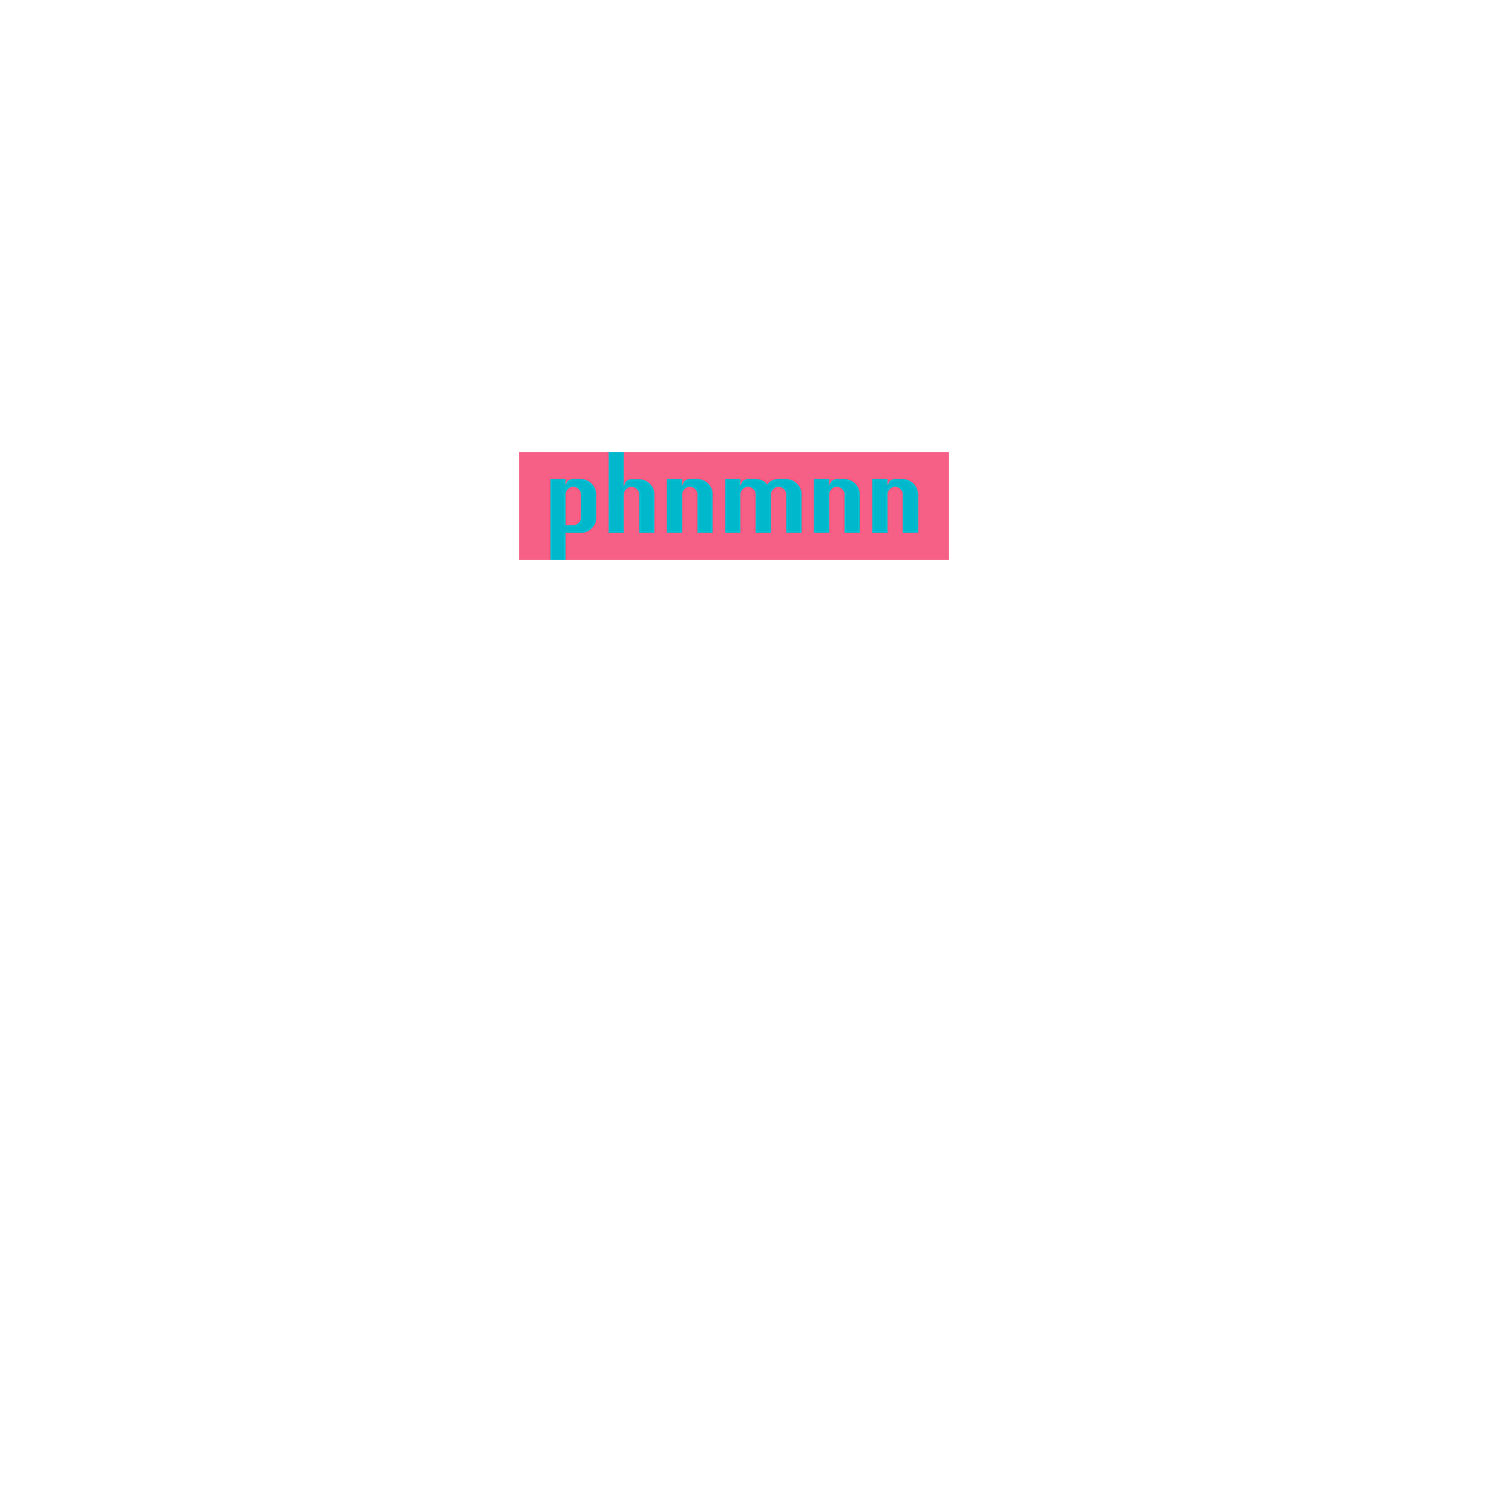
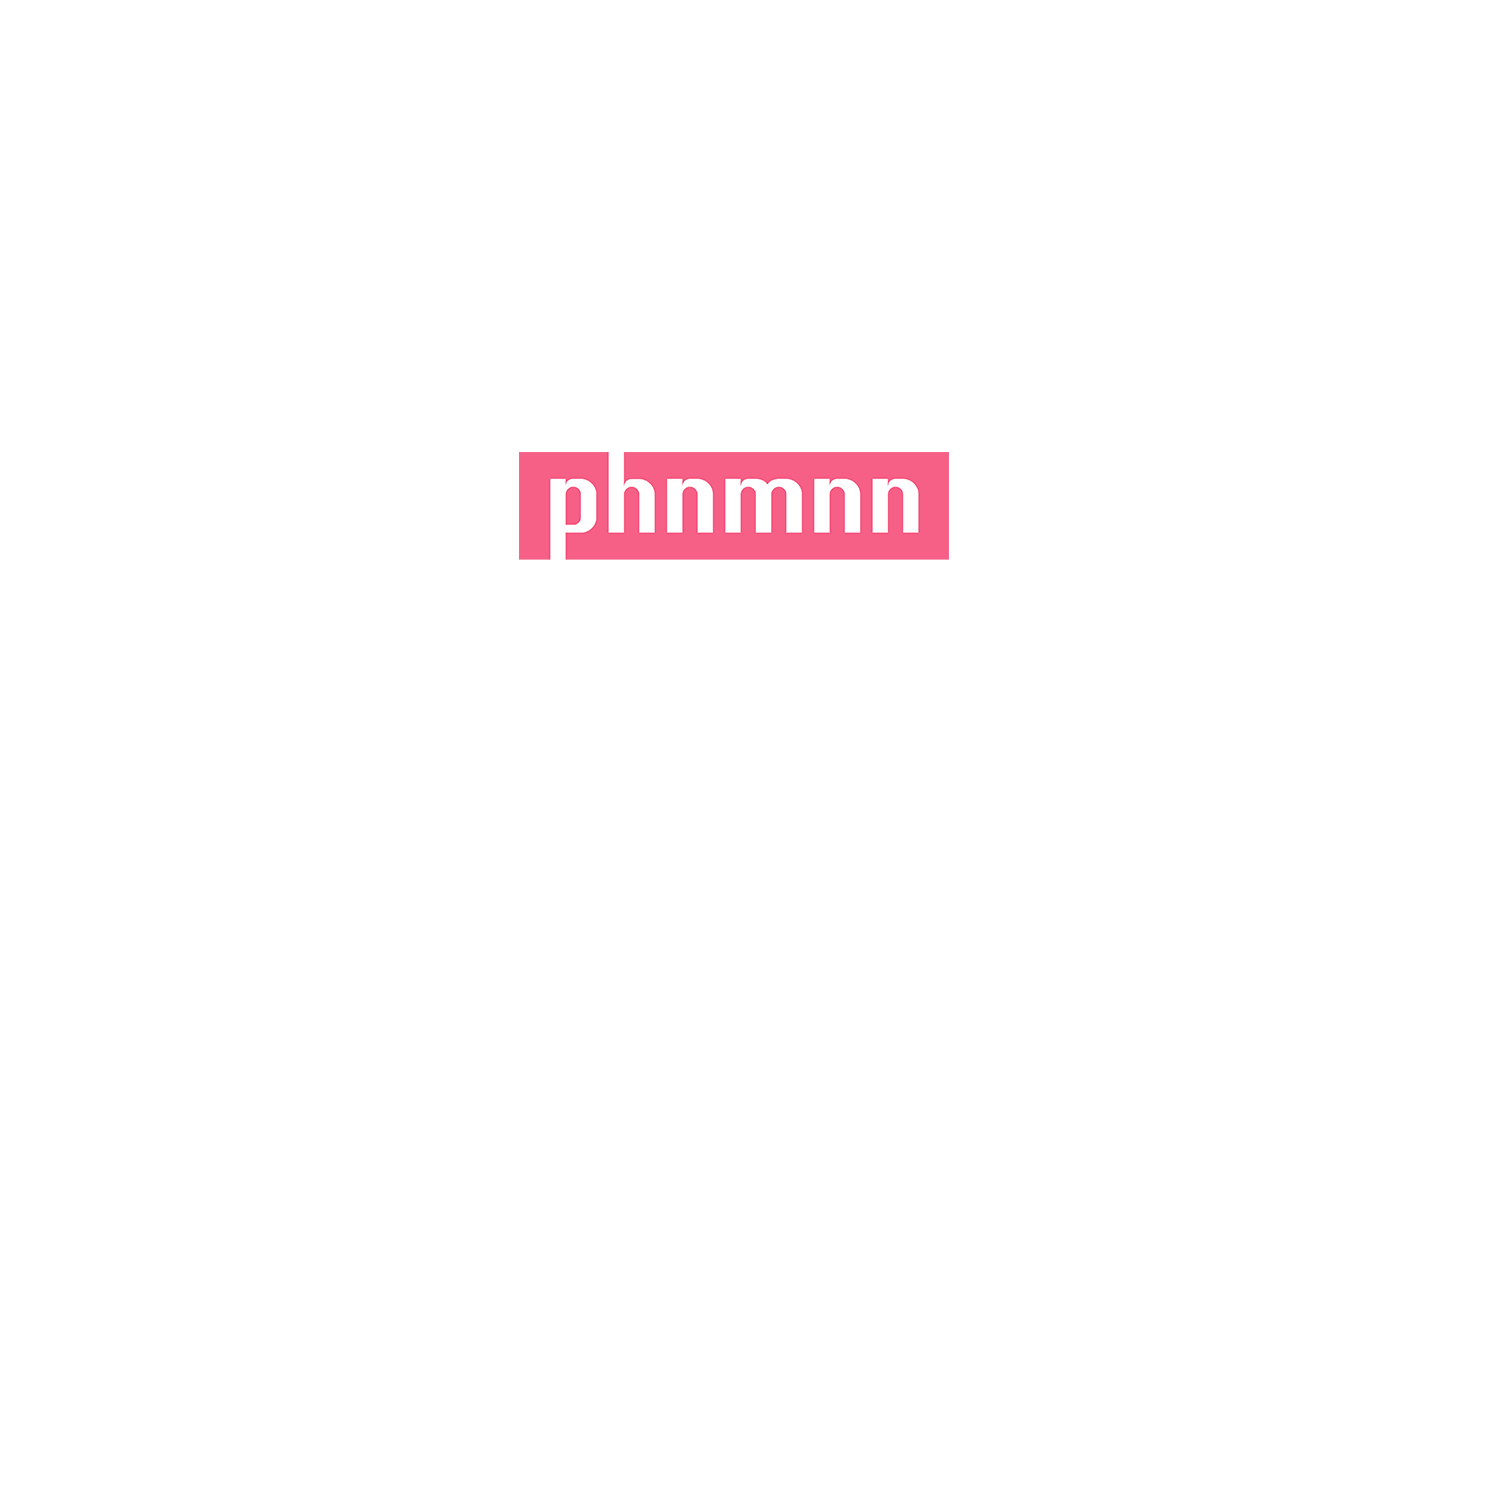
Updated merch

Changed region(s): [[0.368, 0.3079, 0.6133, 0.3695]]

diff --git a/src/data/merch/print/phnmnn/index.ts b/src/data/merch/print/phnmnn/index.ts
@@ -4,26 +4,26 @@ import base_red from '../../base/red.png';
 import base_white from '../../base/white.png';
 import base_lightblue from '../../base/lightblue.png';
 
+import red_blue from './red_blue.png';
 import red from './red.png';
 import lightblue from './lightblue.png';
-import white from './white.png';
 
 const print: PrintVariant[] = [
   {
-    base: { url: base_white, hex: '#FFFFFF', name: 'W' },
+    base: { url: base_lightblue, hex: '#05A1CE', name: 'B' },
     print: { url: red, hex: '#FE5D82', name: 'R' },
   },
   {
-    base: { url: base_white, hex: '#FFFFFF', name: 'W' },
-    print: { url: lightblue, hex: '#00B7CC', name: 'L' },
-  },
-  {
     base: { url: base_red, hex: '#CD336F', name: 'R' },
-    print: { url: lightblue, hex: '#00B7CC', name: 'L' },
+    print: { url: lightblue, hex: '#00B7CC', name: 'B' },
   },
   {
-    base: { url: base_lightblue, hex: '#05A1CE', name: 'L' },
-    print: { url: white, hex: '#FFFFFF', name: 'W' },
+    base: { url: base_white, hex: '#FFFFFF', name: 'W' },
+    print: { url: red_blue, hex: '#FE5D82', name: 'RB' },
+  },
+  {
+    base: { url: base_white, hex: '#FFFFFF', name: 'W' },
+    print: { url: lightblue, hex: '#00B7CC', name: 'B' },
   },
 ];
 

diff --git a/src/data/merch/print/neki/index.ts b/src/data/merch/print/neki/index.ts
@@ -1,9 +1,7 @@
-import { PrintVariant } from '../../../types';
+import { PrintVariant } from '~types';
 
 import base_black from '../../base/black.png';
 import base_white from '../../base/white.png';
-import base_red from '../../base/red.png';
-import base_lightblue from '../../base/lightblue.png';
 
 import red from './red.png';
 import black from './black.png';
@@ -20,14 +18,6 @@ const print: PrintVariant[] = [
   },
   {
     base: { url: base_black, hex: '#000000', name: 'B' },
-    print: { url: white, hex: '#FFFFFF', name: 'W' },
-  },
-  {
-    base: { url: base_red, hex: '#CD336F', name: 'R' },
-    print: { url: white, hex: '#FFFFFF', name: 'W' },
-  },
-  {
-    base: { url: base_lightblue, hex: '#05A1CE', name: 'L' },
     print: { url: white, hex: '#FFFFFF', name: 'W' },
   },
 ];

diff --git a/src/data/merch/index.ts b/src/data/merch/index.ts
@@ -2,10 +2,12 @@ import { Print } from '~types';
 
 import neki from './print/neki';
 import badDuck from './print/bad-duck';
+import ahead from './print/ahead';
 import phnmnn from './print/phnmnn';
 
 export const MERCH: Print[] = [
   { name: 'PHNMNN', variants: phnmnn },
+  { name: 'AHEAD', variants: ahead },
   { name: 'BAD DUCK', variants: badDuck },
   { name: 'NEKI', variants: neki },
 ];

diff --git a/src/data/merch/print/ahead/index.ts b/src/data/merch/print/ahead/index.ts
@@ -1,0 +1,14 @@
+import { PrintVariant } from '~types';
+
+import base_white from '../../base/white.png';
+
+import green from './green.png';
+
+const print: PrintVariant[] = [
+  {
+    base: { url: base_white, hex: '#FFFFFF', name: 'W' },
+    print: { url: green, hex: '#77b75f', name: 'G' },
+  },
+];
+
+export default print;

diff --git a/src/data/merch/print/bad-duck/index.ts b/src/data/merch/print/bad-duck/index.ts
@@ -1,4 +1,4 @@
-import { PrintVariant } from '../../../types';
+import { PrintVariant } from '~types';
 
 import base_black from '../../base/black.png';
 import base_white from '../../base/white.png';
